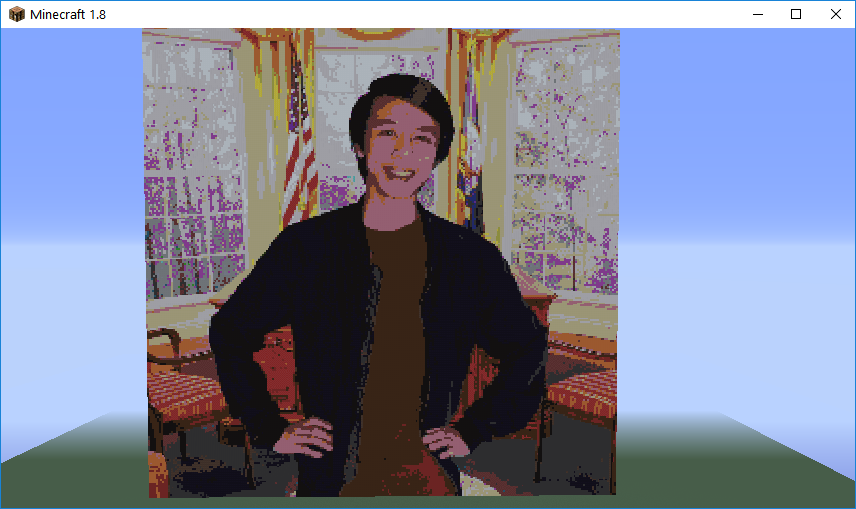
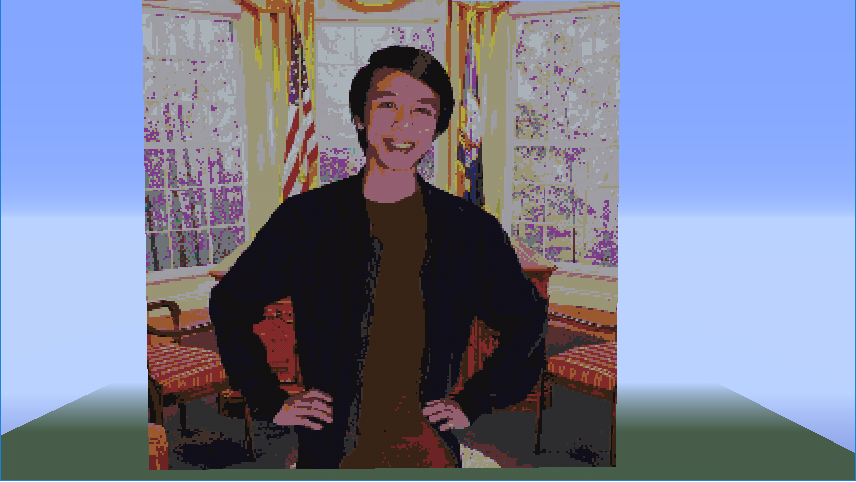
Fixed the image size maybe

diff --git a/docs/index.md b/docs/index.md
@@ -7,26 +7,34 @@ title:  Home
 
 ## Code
 If you would like to take a look at our project, you can find it here:
-[https://github.com/Alex561/CS175-Project](https://github.com/Alex561/CS175-Project)
+[https://github.com/Alex561/Sketchy-AI](https://github.com/Alex561/Sketchy-AI "Sketchy AI")
 
 ## Screenshots
 Here are some of the results from our testing. We use a variety of images to test the limits of our project.
 
-Recreation of the Overwatch symbol:
+Recreation of the symbol for the popular video game Overwatch:
 
 ![](image2.png)
 
-GLORIOUS SPACE:
+Here we used an impressive painting of space we randomly found:
 
-![](image3.png)
+<img src="image3.png" width="850" height="450">
 
-Using a photo:
+An example of the AI using a photo:
 
 ![](image4.png)
 
 
-
 ## Resources
-Scikit-Image:
+#####Scikit-Image:
 This project uses Scikit-Image in order to process its images. Scikit-Image is a collection of algorithms used for image processing in Python. Check it out here:
 [http://scikit-image.org/](http://scikit-image.org/ "Link to Scikit-Image's Site")
+
+###Computer Vision
+Here are some of the computer vision resources that we're looking at that may be used in this project.
+
+#####OpenCV Image Processing: 
+[http://docs.opencv.org/master/d2/dbd/tutorial_distance_transform.html](http://docs.opencv.org/master/d2/dbd/tutorial_distance_transform.html)
+
+#####SimpleCV Cookbook: 
+[http://simplecv.sourceforge.net/doc/cookbook.html](http://simplecv.sourceforge.net/doc/cookbook.html)
